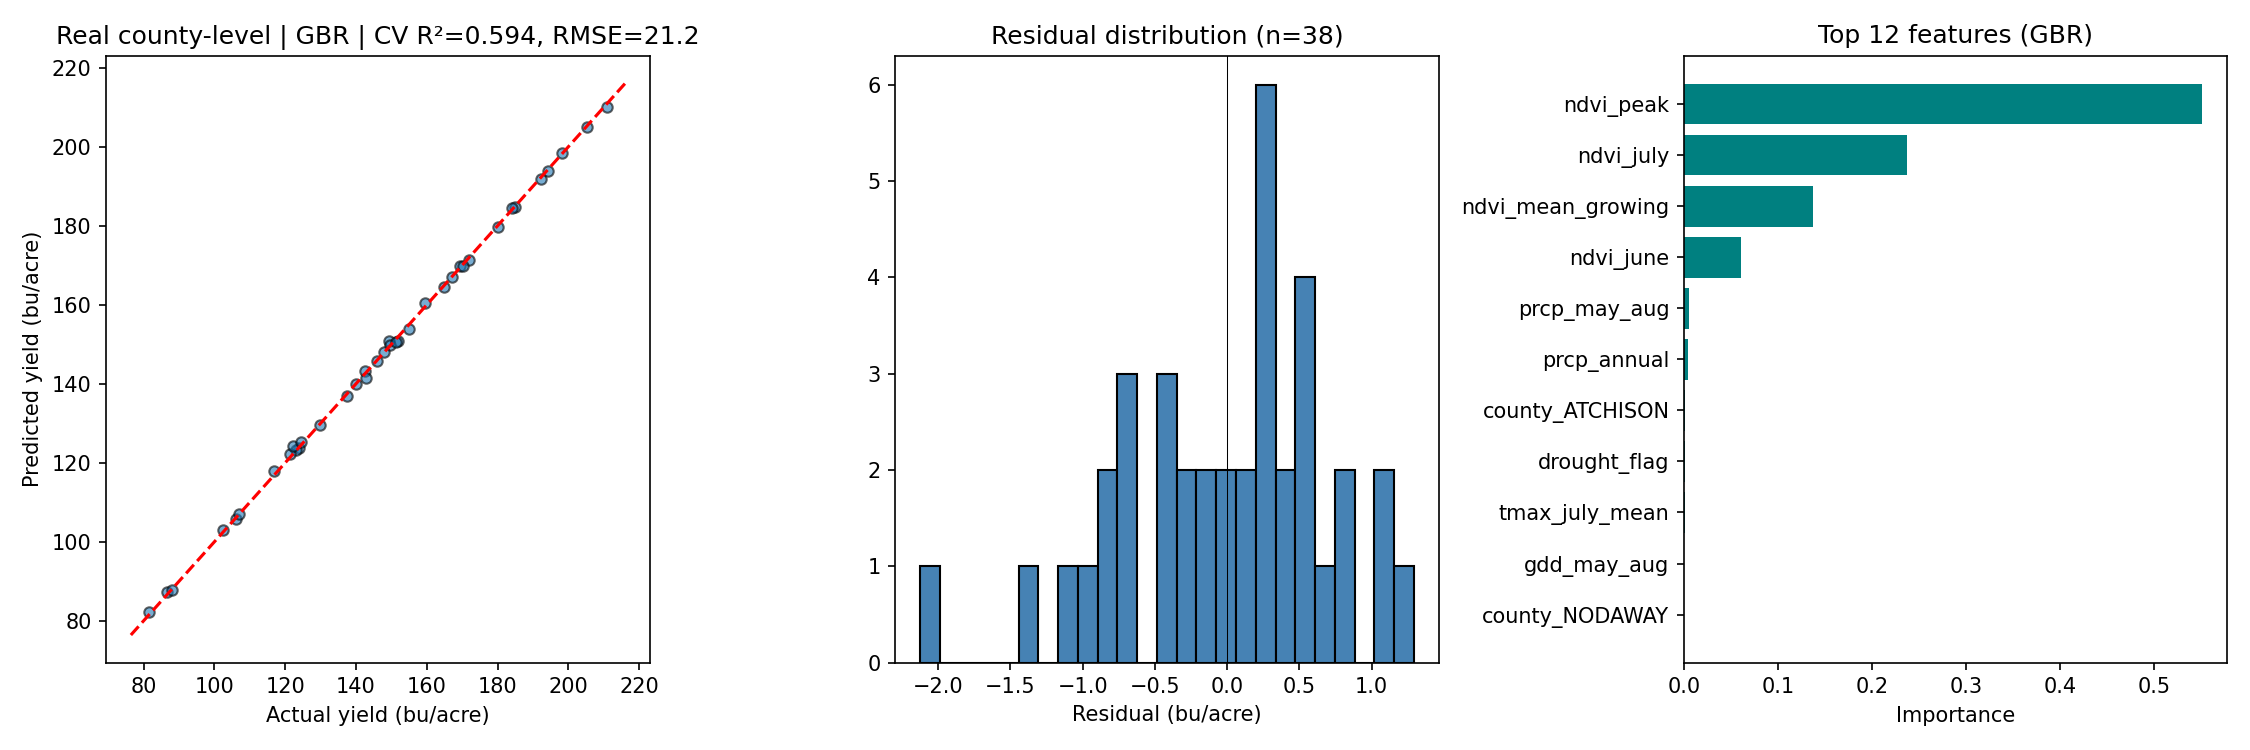
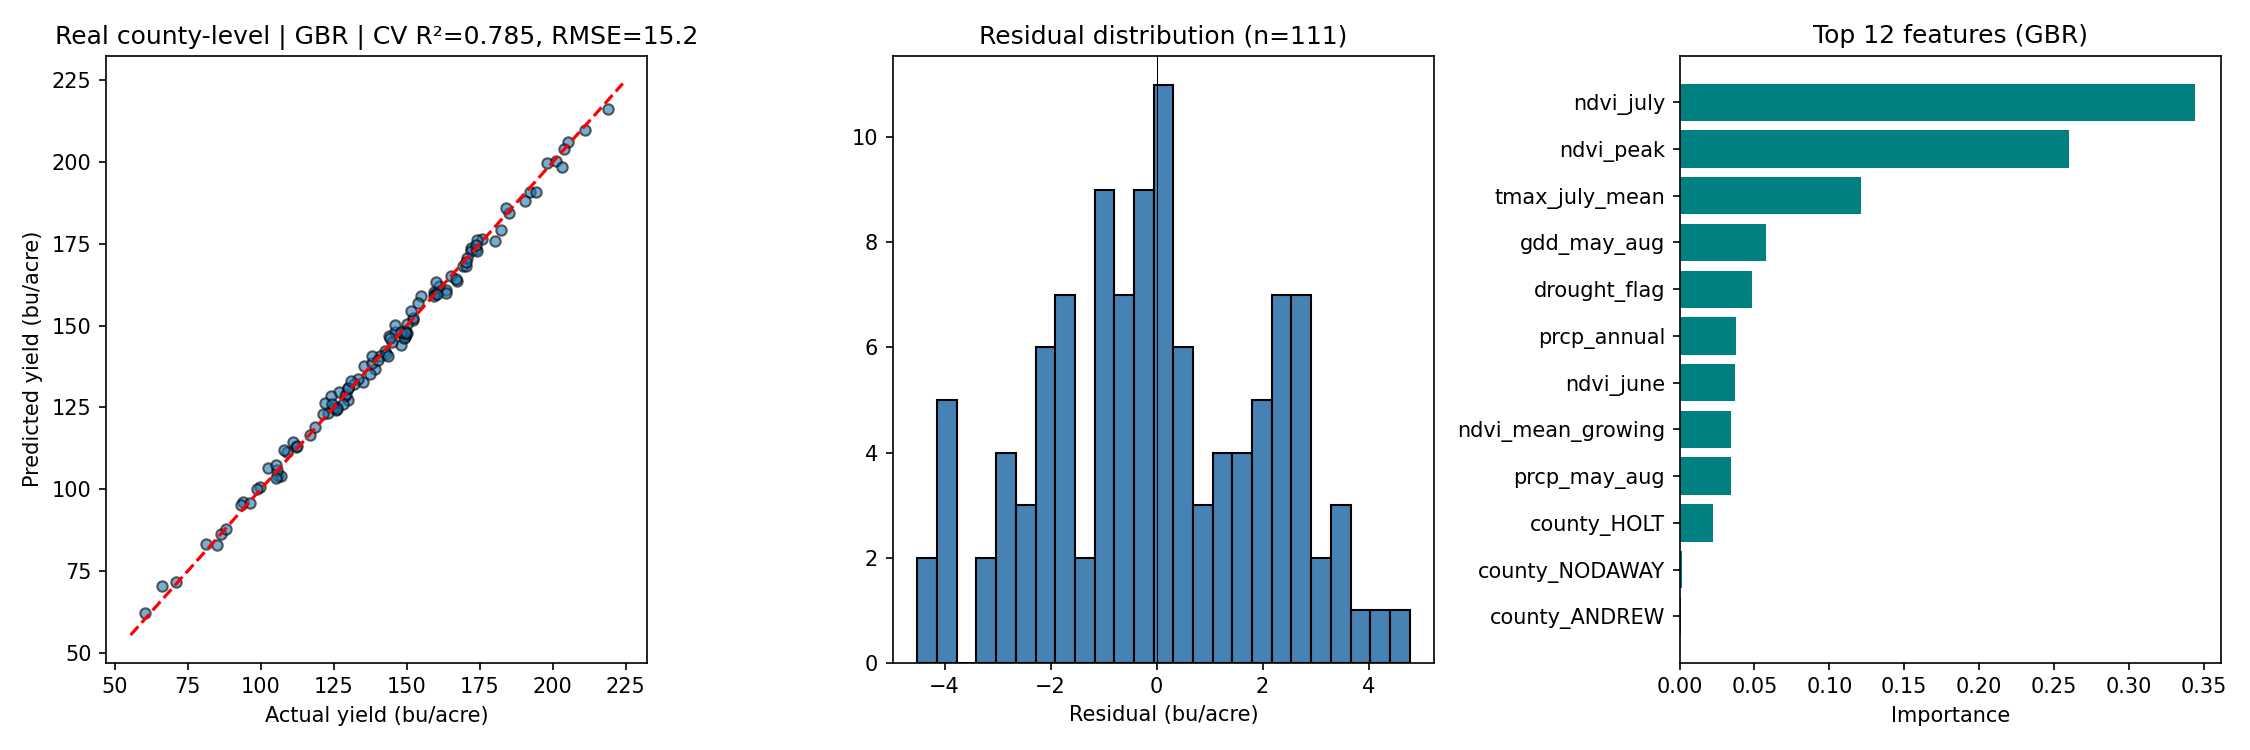
docs: refine README with real-data baseline results and figures
Full 6-county MODIS+NOAA+USDA baseline trained end-to-end:
GBR CV R²=0.785 / RMSE=15.2 bu/acre, Ridge CV R²=0.558.

diff --git a/README.md b/README.md
@@ -2,12 +2,23 @@
 
 End-to-end agricultural monitoring system: satellite NDVI (Sentinel-2 via Google Earth Engine), real-time NOAA/USDA ingestion, Kafka streaming, InfluxDB/PostgreSQL storage, and ML yield prediction for Missouri corn production.
 
-**ML Results:** GradientBoosting LOO-CV R² = 0.80, RMSE = 9.9 bu/acre on 14-year Missouri corn dataset (2010–2023). Peak growing-season NDVI is the dominant predictor.
+## ML Results
 
-![Model Results](figures/model_results.png)
+**Real-data baseline** (MODIS MOD13Q1 NDVI + NOAA GHCND + USDA NASS, 6 NW Missouri counties, 2001–2023, 111 county-years × 15 features):
+
+| Model            | CV R² | CV RMSE (bu/acre) | Train R² |
+|------------------|-------|-------------------|----------|
+| Ridge            | 0.558 | 21.7              | 0.757    |
+| GradientBoosting | **0.785** | **15.2**      | 0.996    |
+
+![GBR — Actual vs Predicted by County](figures/real/model_gbr_county.png)
+![Ridge — Actual vs Predicted by County](figures/real/model_ridge_county.png)
+![Correlation (real data)](figures/real/correlation_real.png)
+
+**Synthetic-data reference** (14-year single-county dataset, LOO-CV): GBR R² = 0.80, RMSE = 9.9 bu/acre.
+
+![Synthetic Model Results](figures/model_results.png)
 ![NDVI vs Yield](figures/ndvi_yield_scatter.png)
-![Correlation Analysis](figures/correlation_analysis.png)
-![EDA Overview](figures/eda_overview.png)
 
 ## Table of Contents
 1. [Quickstart: Analysis Notebook](#quickstart-analysis-notebook)
@@ -36,7 +47,17 @@ The notebook runs end-to-end:
 - Trains Ridge and GradientBoosting models with LOO-CV
 - Outputs correlation heatmap, actual vs predicted scatter, feature importance, and residual plots to `figures/`
 
-To swap in real data: replace `generate_ndvi_series()` / `generate_weather_series()` calls with Google Earth Engine + NOAA API fetchers in `src/`.
+### Real-data baseline
+
+With `NOAA_API_TOKEN` and `USDA_API_KEY` set in `.env`:
+
+```bash
+python3.11 -m venv .venv && .venv/bin/pip install -r requirements.txt
+.venv/bin/python scripts/fetch_real_data.py   # caches parquets in data/real/
+.venv/bin/python scripts/train_real.py        # writes figures/real/
+```
+
+Fetches MODIS MOD13Q1 NDVI (ORNL DAAC REST, no auth), NOAA GHCND daily weather, and USDA NASS county corn yields. Reruns hit the parquet cache.
 
 ## Prerequisites
 - Git (for cloning the repo)